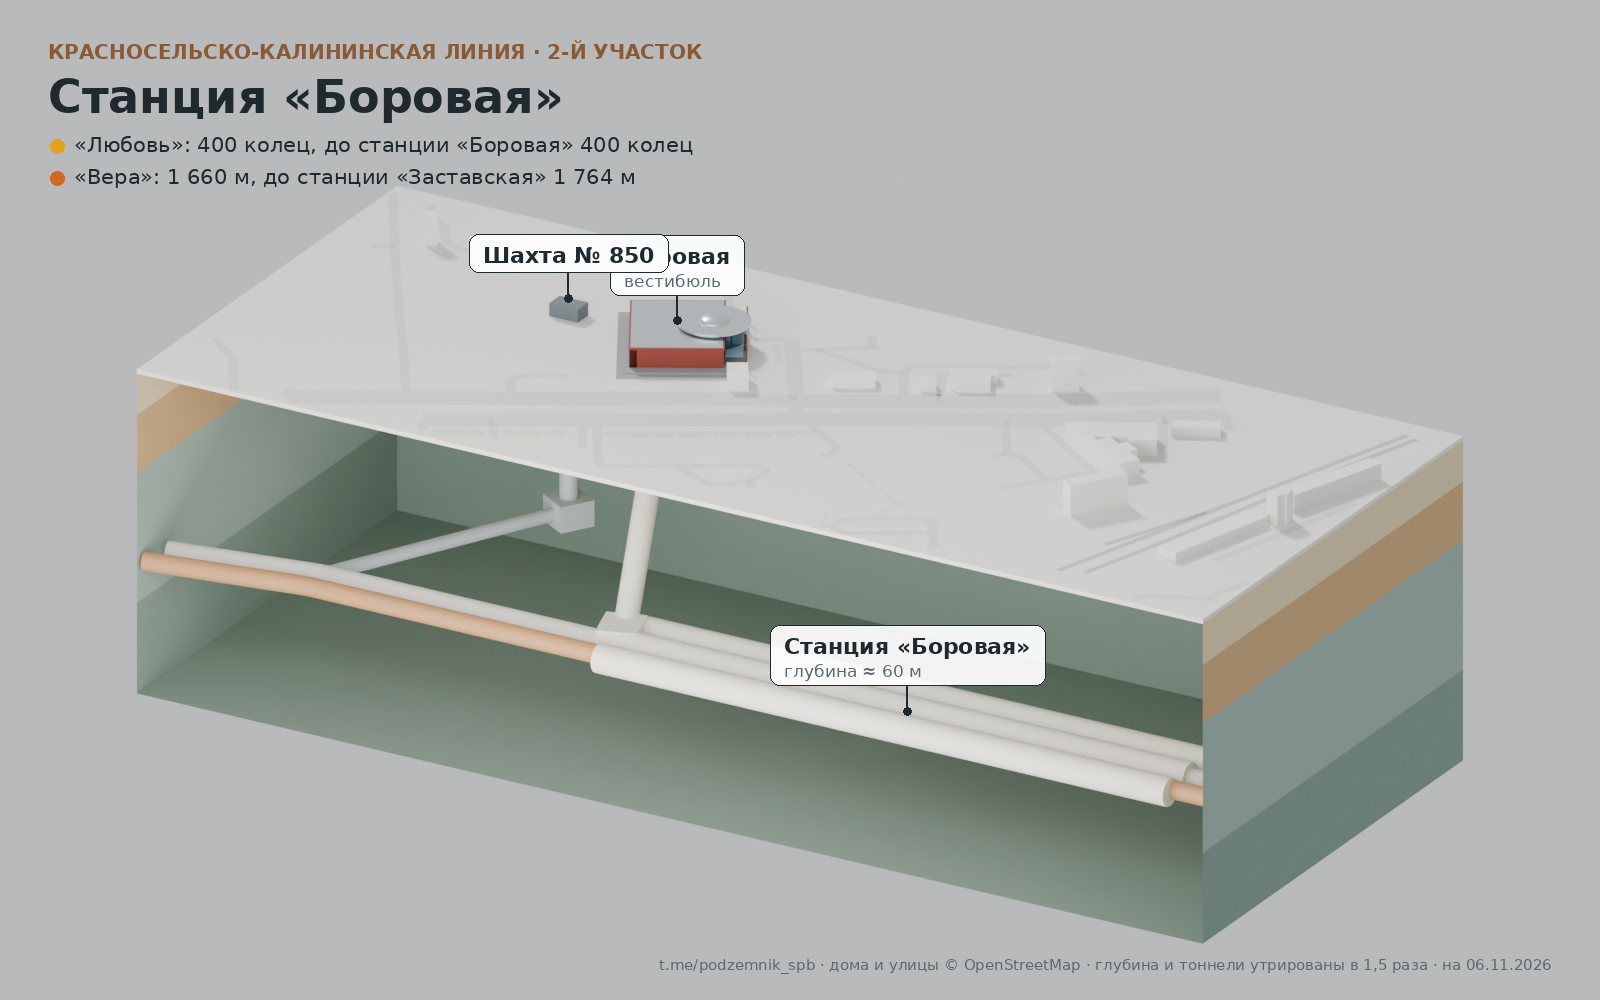
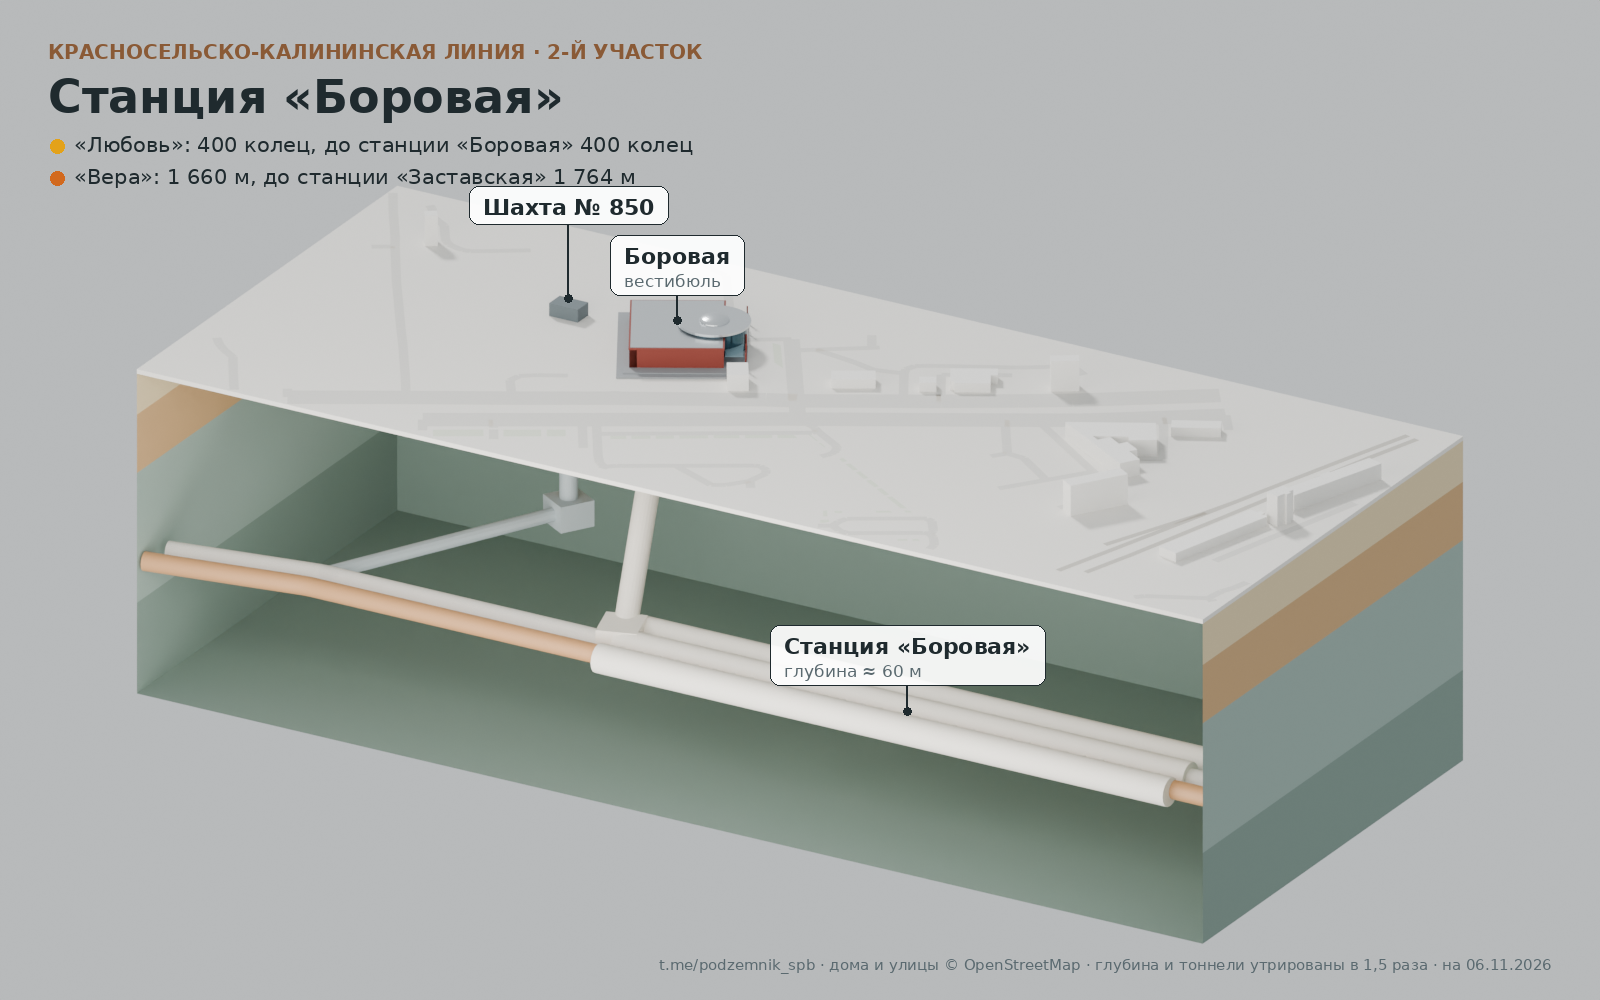
Diorama: avoid overlapping captions
Claude-Session: https://claude.ai/code/session_01PKDA1CBoDHXugKCprkCCiH

Changed region(s): [[0.2812, 0.186, 0.4375, 0.279]]

diff --git a/tools/annotate.py b/tools/annotate.py
@@ -17,11 +17,14 @@ def font(size, bold=False):
 def hexa(h, a=255): h = h.lstrip("#"); return tuple(int(h[i:i + 2], 16) for i in (0, 2, 4)) + (a,)
 INK, MUTED, BROWN = hexa("#1f2a2e"), hexa("#5b6a70"), hexa("#8a5a36")
 
+BOXES = []
 def pill(x, y, text, sub=None, color=None, anchor_up=True):
     f1, f2 = font(22, True), font(17)
     w = max(d.textlength(text, font=f1), d.textlength(sub, font=f2) if sub else 0) + 28
     h = 38 + (22 if sub else 0)
     bx, by = x - w / 2, y - h - 26
+    while any(bx < X2 and bx + w > X1 and by < Y2 and by + h > Y1 for X1, Y1, X2, Y2 in BOXES): by -= 12   # не накладывать подписи
+    BOXES.append((bx - 6, by - 6, bx + w + 6, by + h + 6))
     d.line([(x, y), (x, by + h)], fill=INK, width=2)
     d.ellipse([x - 4, y - 4, x + 4, y + 4], fill=INK)
     d.rounded_rectangle([bx, by, bx + w, by + h], 10, fill=(255, 255, 255, 235), outline=hexa(color) if color else INK, width=3 if color else 1)
